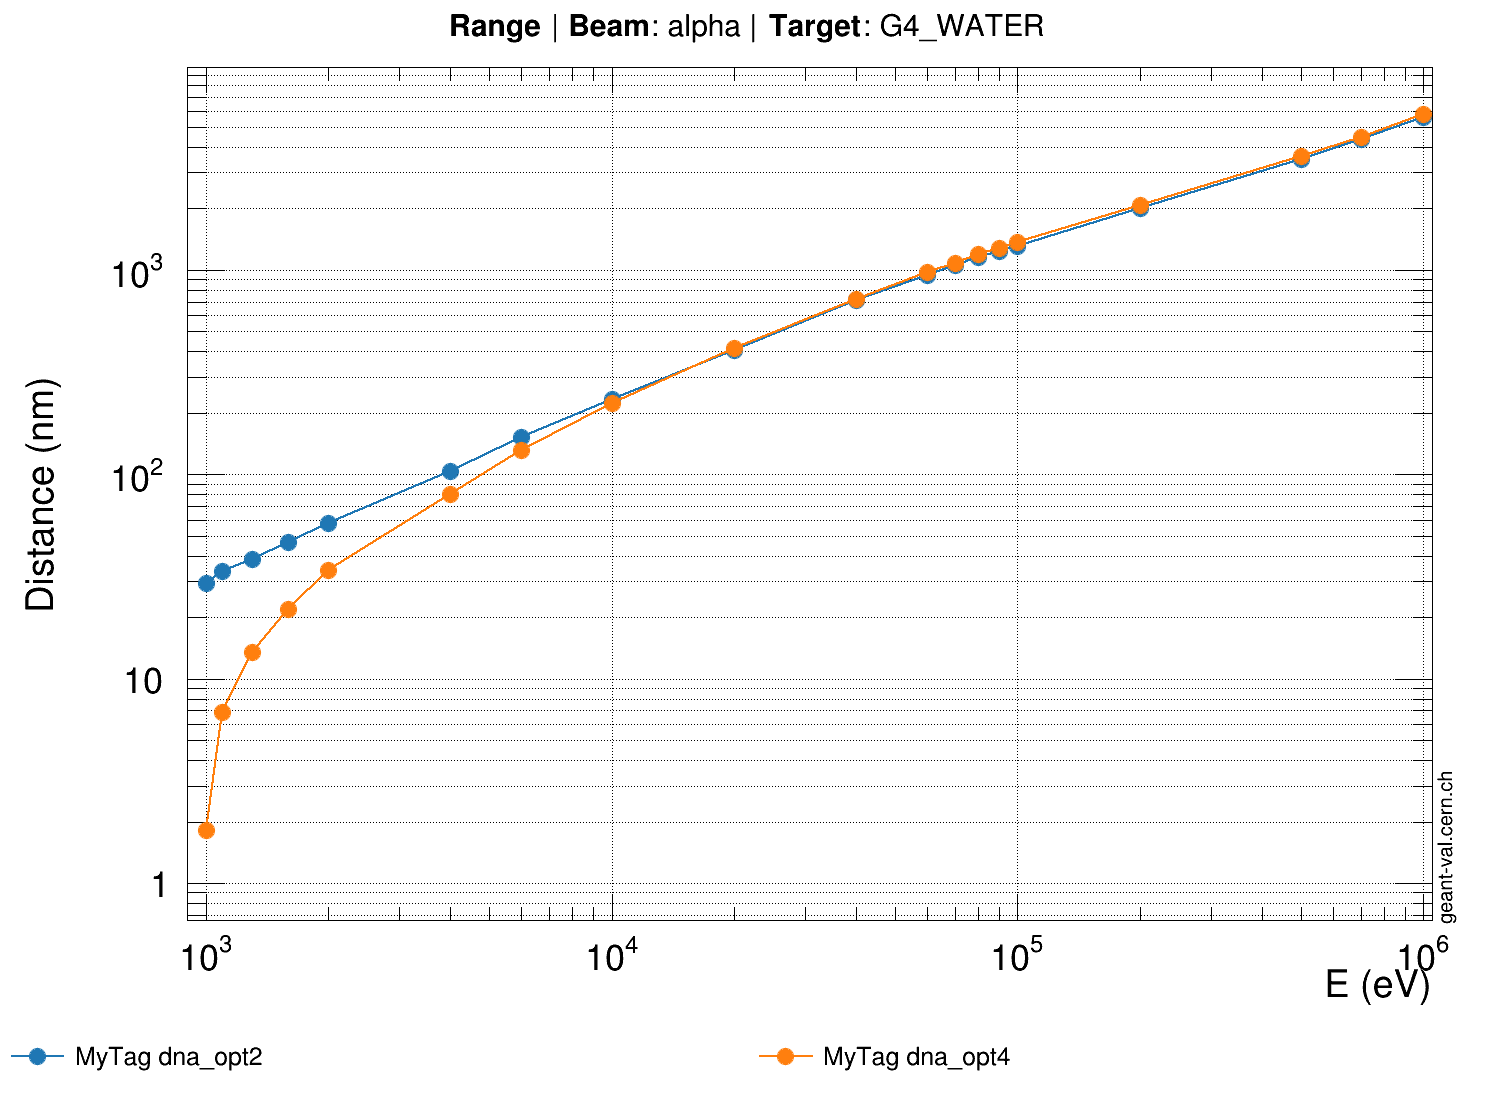
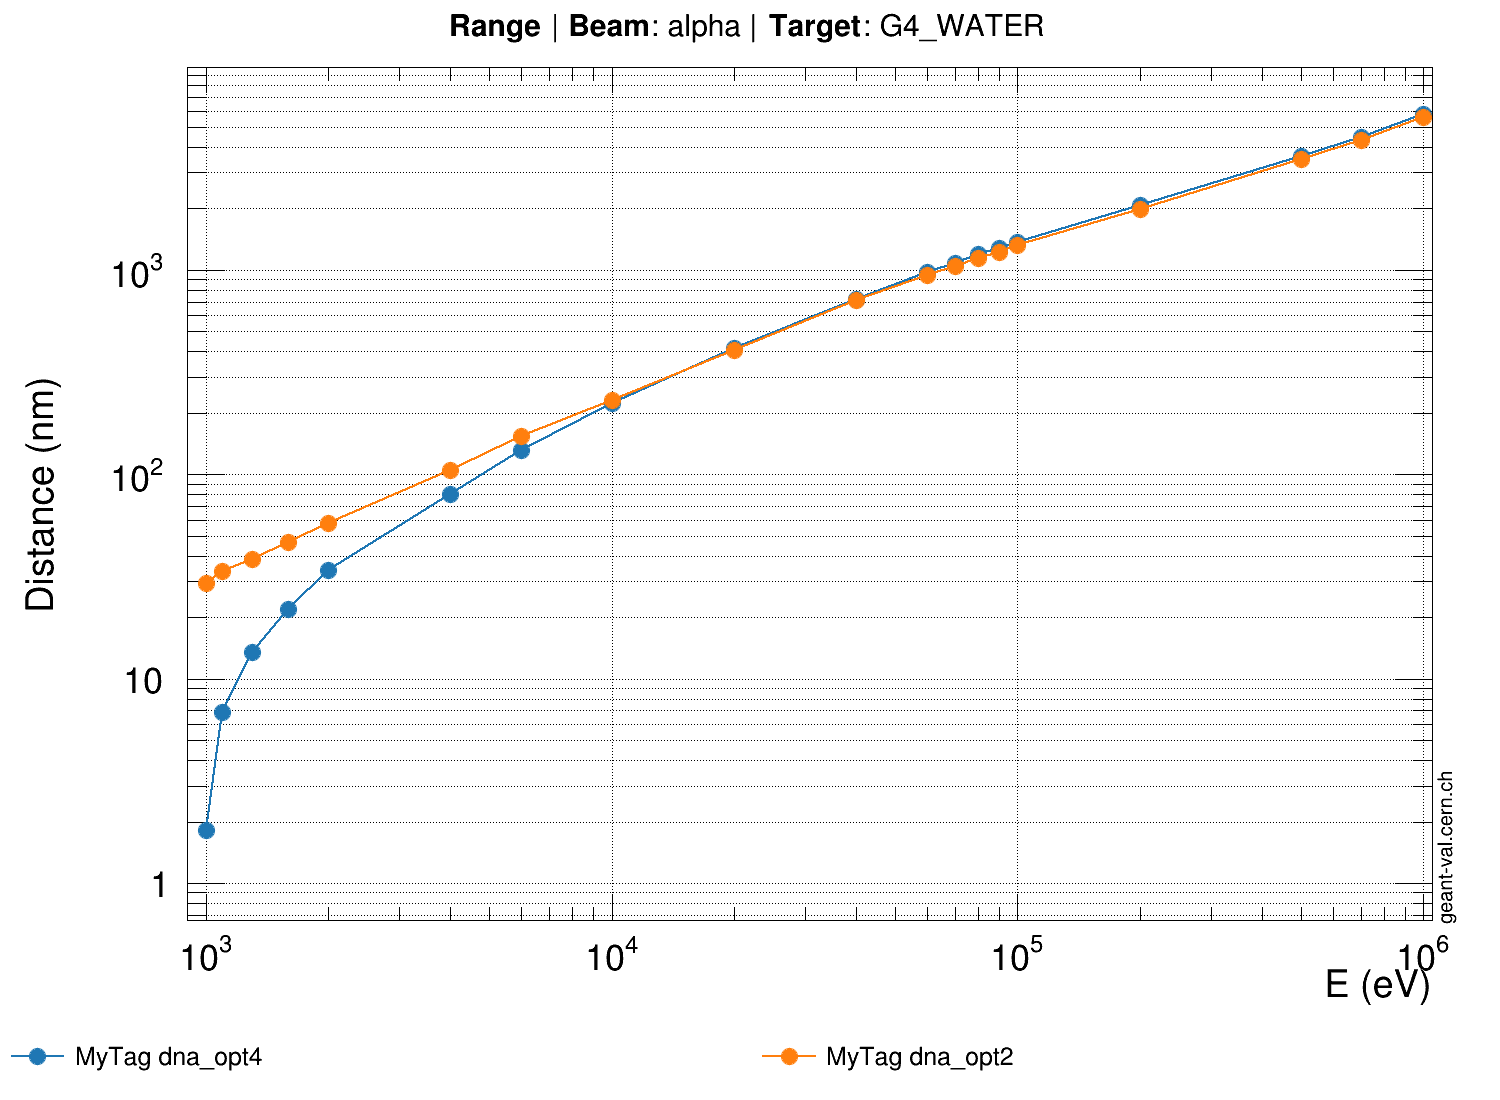
range/alpha.conf/MyTag : jeu. juin  8 09:52:47 CEST 2023

diff --git a/assets/OUTPUTJSON/geant4/MyTag/x86_64/range/alpha.conf.c b/assets/OUTPUTJSON/geant4/MyTag/x86_64/range/alpha.conf.c
@@ -4586,3 +4586,187 @@ double gvp_id-1_yerrors[19] = {
   0,
   0
 };
+// Tool:               GEANT4
+// Version:            MyTag
+// Model:              dna_opt4
+// Observable:         range
+// Target:             G4_WATER
+// Beam Particle:      alpha
+// Secondary Particle: None
+
+double gvp_id-1_x[19] = {
+  1000,
+  1100,
+  1300,
+  1600,
+  2000,
+  4000,
+  6000,
+  10000,
+  20000,
+  40000,
+  60000,
+  70000,
+  80000,
+  90000,
+  100000,
+  200000,
+  500000,
+  700000,
+  1e+06
+};
+double gvp_id-1_y[19] = {
+  1.82096,
+  6.87343,
+  13.4566,
+  22.0325,
+  33.8783,
+  80.3267,
+  130.752,
+  223.992,
+  413.212,
+  719.219,
+  979.862,
+  1084.02,
+  1189,
+  1278.12,
+  1364.75,
+  2065.81,
+  3617.71,
+  4480.1,
+  5796.53
+};
+double gvp_id-1_xerrors[19] = {
+  0,
+  0,
+  0,
+  0,
+  0,
+  0,
+  0,
+  0,
+  0,
+  0,
+  0,
+  0,
+  0,
+  0,
+  0,
+  0,
+  0,
+  0,
+  0
+};
+double gvp_id-1_yerrors[19] = {
+  0,
+  0,
+  0,
+  0,
+  0,
+  0,
+  0,
+  0,
+  0,
+  0,
+  0,
+  0,
+  0,
+  0,
+  0,
+  0,
+  0,
+  0,
+  0
+};
+// Tool:               GEANT4
+// Version:            MyTag
+// Model:              dna_opt2
+// Observable:         range
+// Target:             G4_WATER
+// Beam Particle:      alpha
+// Secondary Particle: None
+
+double gvp_id-1_x[19] = {
+  1000,
+  1100,
+  1300,
+  1600,
+  2000,
+  4000,
+  6000,
+  10000,
+  20000,
+  40000,
+  60000,
+  70000,
+  80000,
+  90000,
+  100000,
+  200000,
+  500000,
+  700000,
+  1e+06
+};
+double gvp_id-1_y[19] = {
+  29.5042,
+  33.6842,
+  38.5318,
+  46.8497,
+  57.9766,
+  105.165,
+  154.712,
+  231.961,
+  407.425,
+  715.671,
+  945.308,
+  1049.97,
+  1140.06,
+  1225.08,
+  1316.29,
+  1986.61,
+  3487.81,
+  4320.1,
+  5607.4
+};
+double gvp_id-1_xerrors[19] = {
+  0,
+  0,
+  0,
+  0,
+  0,
+  0,
+  0,
+  0,
+  0,
+  0,
+  0,
+  0,
+  0,
+  0,
+  0,
+  0,
+  0,
+  0,
+  0
+};
+double gvp_id-1_yerrors[19] = {
+  0,
+  0,
+  0,
+  0,
+  0,
+  0,
+  0,
+  0,
+  0,
+  0,
+  0,
+  0,
+  0,
+  0,
+  0,
+  0,
+  0,
+  0,
+  0
+};
